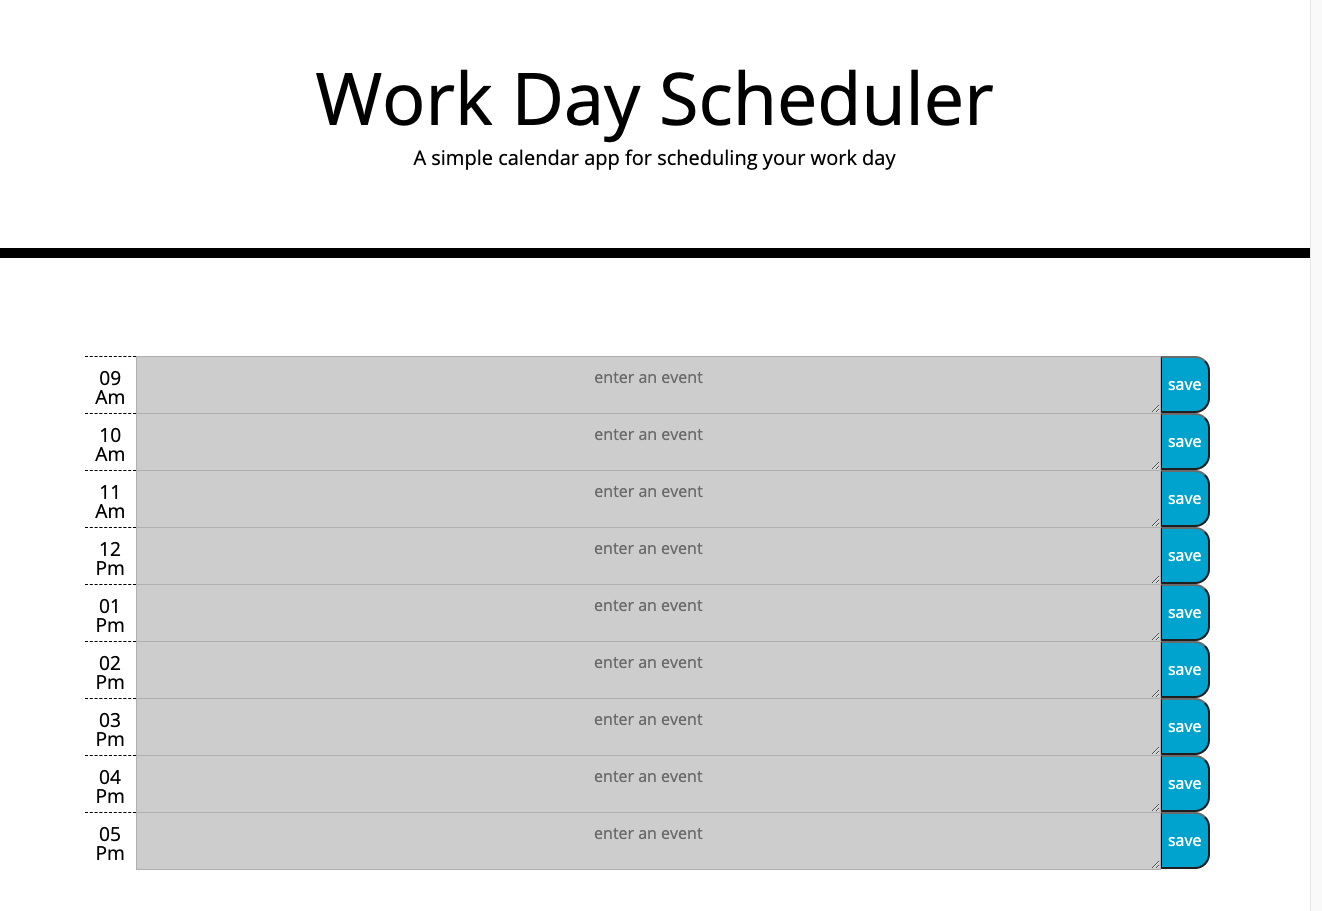
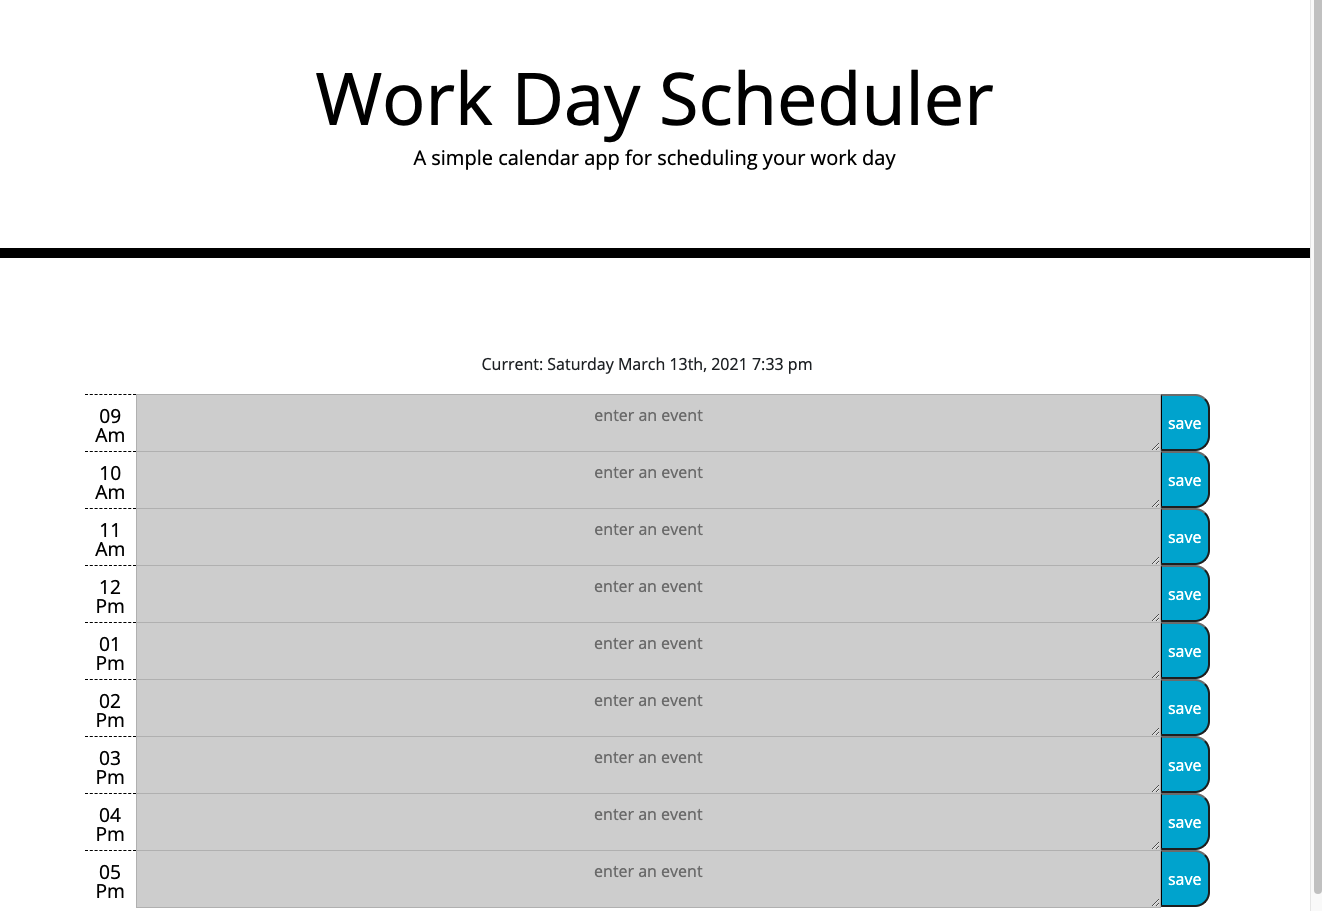
okay, final push

diff --git a/index.html b/index.html
@@ -11,6 +11,7 @@
   <link href="https://fonts.googleapis.com/css?family=Open+Sans&display=swap" rel="stylesheet" />
   <link rel="stylesheet" href="./assets/style.css" />
   <title>Work Day Scheduler</title>
+ 
 </head>
 
 <body>
@@ -22,7 +23,7 @@
 
   <!-- Timeblocks go here -->
   <div class="list-group time-block container">
-
+<div id='curTime'> Current Time </div>
     <div class="slots">
       <div id='nine' class='hour'> </div>
       <textarea href="#" id="slot1" class="list-group-item list-group-item-action" placeholder="enter an event"></textarea>

diff --git a/assets/script.js b/assets/script.js
@@ -1,3 +1,4 @@
+document.getElementById('curTime').textContent = moment().format('[Current: ]dddd MMMM Do, YYYY h:mm a')
 var now = moment().hour()
 runIt()
 function runIt() {

diff --git a/assets/style.css b/assets/style.css
@@ -85,3 +85,7 @@ input{
 display: flex;
 flex-direction: row;
 }
+#curTime{
+
+  padding-bottom: 2%;
+}
